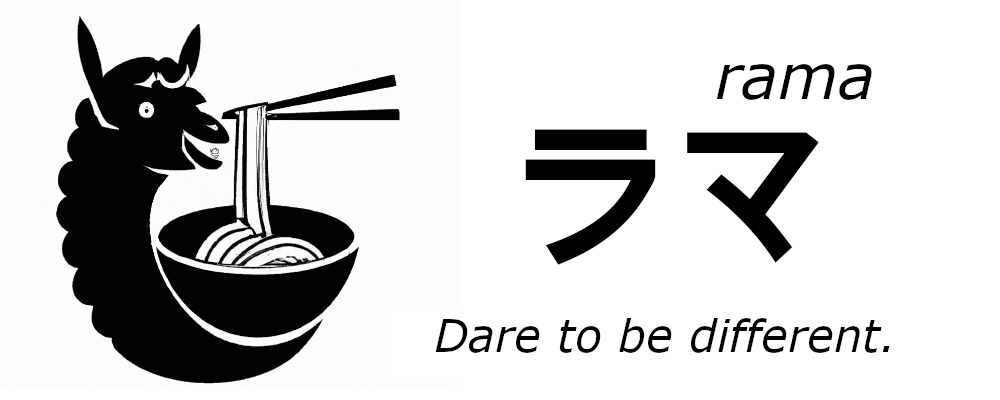
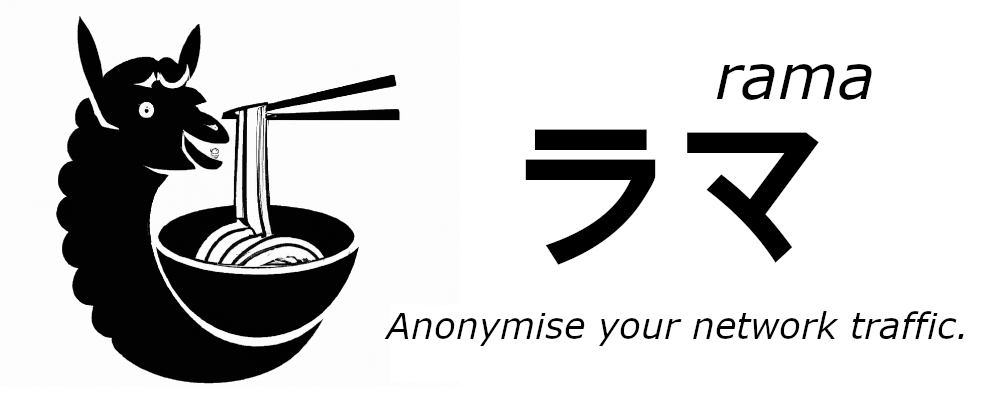
turn rama into a single crate repo
this will be cleaner and enforce us to stay a bit more focussed :)
once we start to get too big we can start to work with feature flags
(e.g. stuff like real chrome services will def. be behind a feature flag

Changed region(s): [[0.372, 0.78, 0.961, 0.9]]

diff --git a/README.md b/README.md
@@ -1,8 +1,4 @@
-![rama banner](./docs/img/banner.png)
-
-llama is the monorepo for [rama (ラマ)](./rama) and [pango](#pango).
-
-## rama (ラマ)
+![rama banner](docs/img/banner.png)
 
 [![Crates.io][crates-badge]][crates-url]
 [![Docs.rs][docs-badge]][docs-url]
@@ -19,43 +15,97 @@ llama is the monorepo for [rama (ラマ)](./rama) and [pango](#pango).
 [actions-url]: https://github.com/plabayo/llama/actions?query=workflow%3ACI+branch%main
 
 rama is a proxy framework using Tokio written purely in Rust,
-it's services all the way down.
+with as primary goal to anonymise your network traffic.
 
-The name is Japanese for llama, the mascot and spiritual inspiration of this proxy framework.
+> The name "ラマ (rama)" is Japanese for llama, the mascot and spiritual inspiration of this proxy framework.
 
-Look into [rama's README](./rama/README.md) for more information.
+rama can be used in two different ways:
 
-## pango
+- `rama::core::*` contains all the building blocks to build your own (web) proxy,
+  which can be used to build any (web) proxy you can think of;
+- `rama::managed::*` combines the above to give you an easy to use Proxy builder and other web related services such as a TLS terminator and HTTP(S) mirror web service.
 
-[![Crates.io][crates-badge]][crates-url]
-[![Docs.rs][docs-badge]][docs-url]
-[![MIT licensed][mit-badge]][mit-url]
-[![Build Status][actions-badge]][actions-url]
+In the `/bin` folder your find a variety of ready-to-use binaries that use the `rama` crate internally:
 
-[crates-badge]: https://img.shields.io/crates/v/pangotls.svg
-[crates-url]: https://crates.io/crates/pangotls
-[docs-badge]: https://img.shields.io/docsrs/pangotls/latest
-[docs-url]: https://docs.rs/pangotls/latest/pangotls/index.html
-[mit-badge]: https://img.shields.io/badge/license-MIT-blue.svg
-[mit-url]: https://github.com/plabayo/llama/blob/master/LICENSE
-[actions-badge]: https://github.com/plabayo/llama/workflows/CI/badge.svg
-[actions-url]: https://github.com/plabayo/llama/actions?query=workflow%3ACI+branch%main
+- `/bin/rama` has a ready to use `rama::managed::proxy`, usable as a pure transport layer proxy or a full blown MITM proxy;
+- `/bin/pango` has a ready to use `rama::managed::tls`, a TLS terminator;
+- `/bin/mirror` has a ready to use `rama::managed::mirror`, a HTTP(S) mirror web service that can be used to see incoming traffic and mock services for it;
 
-pango is a cross platform TLS Reverse Proxy, written purely in Rust, built on top of [rama](./rama).
+The `rama::core` can be summarized in one chart as follows:
 
-It can be used either as a standalone binary where it is used as part of your backend infrastructure, or as a library in order to use pango as a [Tower](https://github.com/tower-rs/tower) service which wraps your _Http_ service.
+```
+┌────────────────────────────────────────┐      ┌──────────────────────────────────────┐
+│inbound                                 │      │outbound                              │
+├──────────┬─────────────────────────────┤      ├──────────────────────────────────────┤      ┌──────┐
+│transports│services                     │      │handlers                              │      │Target│
+├──────────┼─────────────────────────────┤ ◄──► ├──────────────────────────────────────┤ ◄──► ├──────┤
+│          │AsyncRW -> Result<AsyncRW>   │      │HTTP(S) Proxy, Socks5 Proxy, ...      │      │Proxy │
+├──────────┼─────────────────────────────┤      │                                      │      └──────┘
+│TCP       │TLS, Firewall, RateLimit, ...│      │        TODO: define this side better │
+└──────────┴─────────────────────────────┘      └──────────────────────────────────────┘
 
-[Axum](https://github.com/tokio-rs/axum) is the recommended http server library of choice
-should you wanna go for the latter approach, as it will fit nicely with the rest of the code.
+`rama::managed::*` combines the above to give you an easy to use Proxy framework,
+which should allow you to focus only on the config of the proxy and any custom services
+you might wish to use.
+```
 
-Here is a high level overview of how pango's services are composed:
+## Goals
+
+With rama you can should be able to write any typical tls/http proxy,
+without having to write all the boilerplate code first,
+but by keeping all the power that comes with having a source-code driven proxy.
+
+The following technologies are used under the hood of rama,
+and are for the most part exposed to the user:
+
+- [tokio][tokio]: async runtime of choice, and also drives the TCP layer, the foundation for most common proxies;
+- [tower][tower]: layer your proxy together using tower, all services provided by rama are tower-compatible;
+- [rustls][rustls]: tls server layer (reverse proxy) as well as tls client layer, provided by _rustls_, safe and fun;
+- [hyper][hyper]: http1/2/3 client of choice, also used in case you wish to implement an http (MITM) proxy;
+- [fast-socks5][socks5]: socks5 client/server, useful in case you want a socks5 proxy;
+- [hyper-tungstenite-rs][ws]: serve incoming web socket requests;
+
+[tokio]: https://tokio.rs
+[tower]: https://github.com/tower-rs/tower
+[rustls]: https://github.com/rustls/rustls
+[hyper]: https://hyper.rs
+[socks5]: https://github.com/dizda/fast-socks5
+[ws]: https://github.com/de-vri-es/hyper-tungstenite-rs
+
+All these technologies are built-in to rama and drive many of its provided services.
+Llama is also bundled with some custom middleware layers as well that can be used in combination with
+these services. Important to know is that:
+
+- All layers are optional and composable how you want;
+- You should be able to use any other Tokio-compatible Tower-driven library out there, for all your middleware and service needs;
+
+As such you should easily be able to implement your own Service for any layer you wish,
+while at the same time retaining the ability to seamlessly piggy-back on rama for most of your proxy logic.
+
+## Services
+
+With [Tower][tower] everything is a service. A service takes in a request and outputs either an error or a response.
+What the actual types for these request-response pairs are, is up to you and depend mostly on the layer it is used.
+In tower it is typical that a service wraps another service, as such all your services and middleware will stack on top of each other,
+like a... _tower_.
+
+### Socks5 Proxy Example
+
+A socks5 proxy could be implemented as follows:
 
 ```
 tcp::Server
- ⤷ tcp::middleware::*
-     ⤷ tls::Server
-         ⤷ tls::middleware::*
-             ⤷ tcp::Client ⭢ /target/
+     ⤷ socks5::Server ⭢ /target/
 ```
 
-Look into [pango's README](./pangotls/README.md) for more information.
+A typical rama proxy will start with `tcp::Server`.
+This gives you [an accepted TcpStream](https://docs.rs/tokio/latest/tokio/net/struct.TcpStream.html).
+
+> Given "Accept" is a _kernel_ function this is the lowest level you can go painlessly.
+> Should you want to be able to act upon incoming tcp clients prior to accepting,
+> you'll need to implement it yourself on kernel level, and make your own Rust service
+> to make use of that kernel module.
+>
+> _eBPF_ could help you achieve this, which can be done
+> using https://github.com/foniod/redbpf. Note though that this comes
+> with a lot of effort on your side while at the same time not giving a lot in return.
